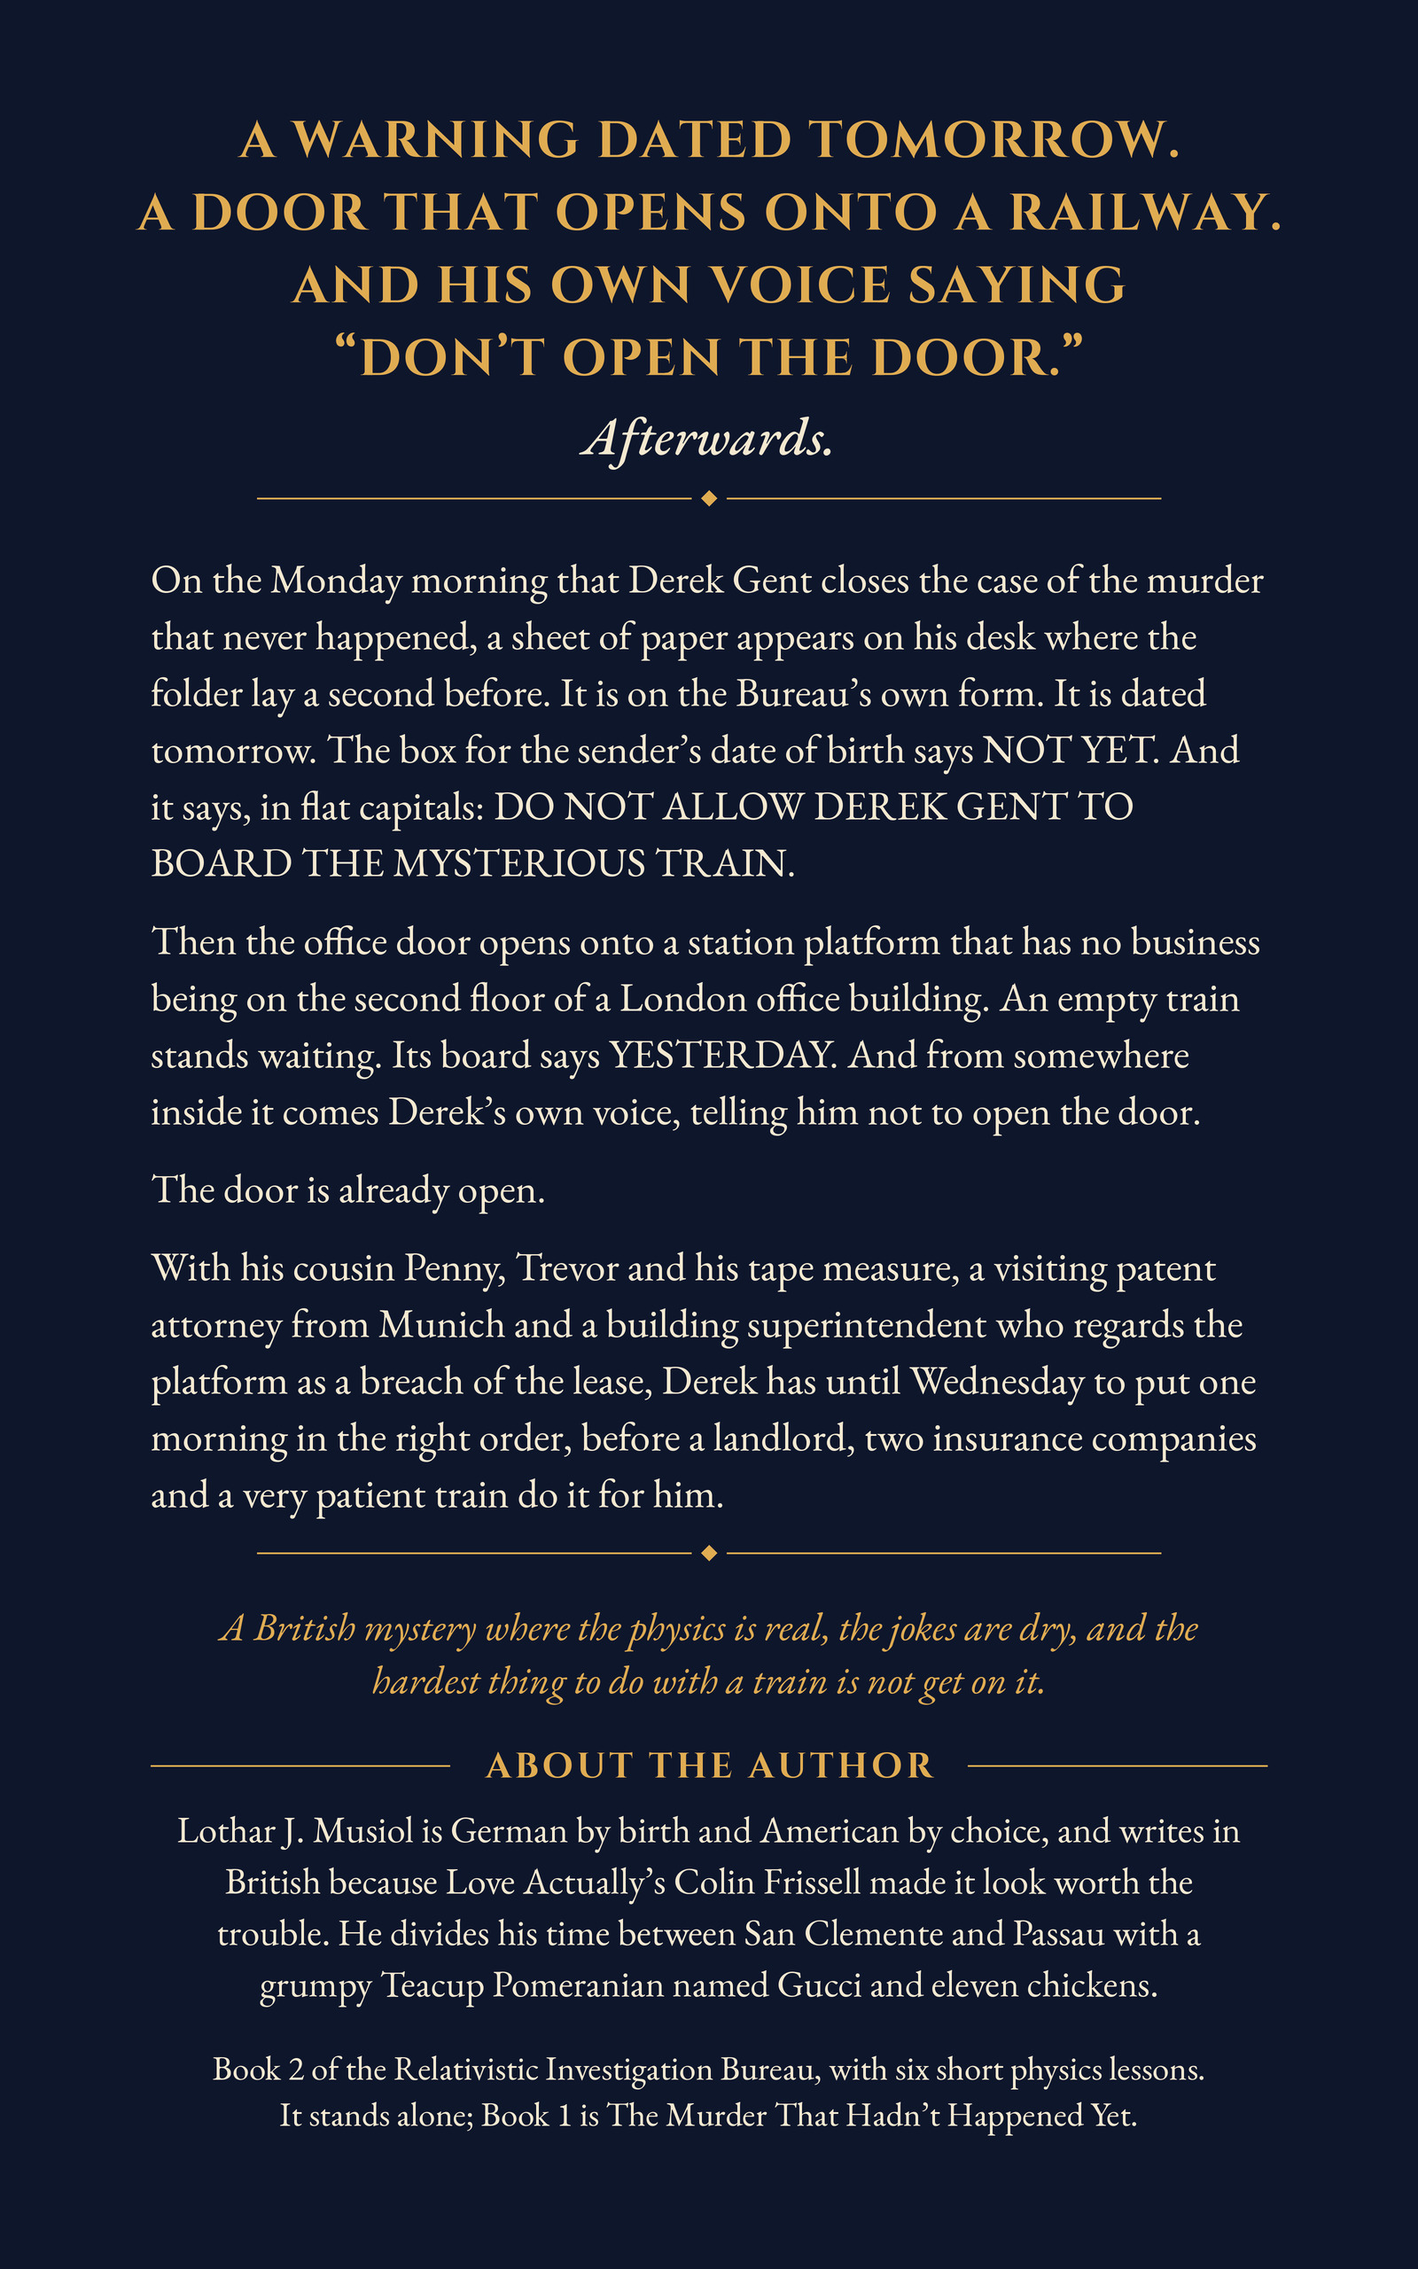
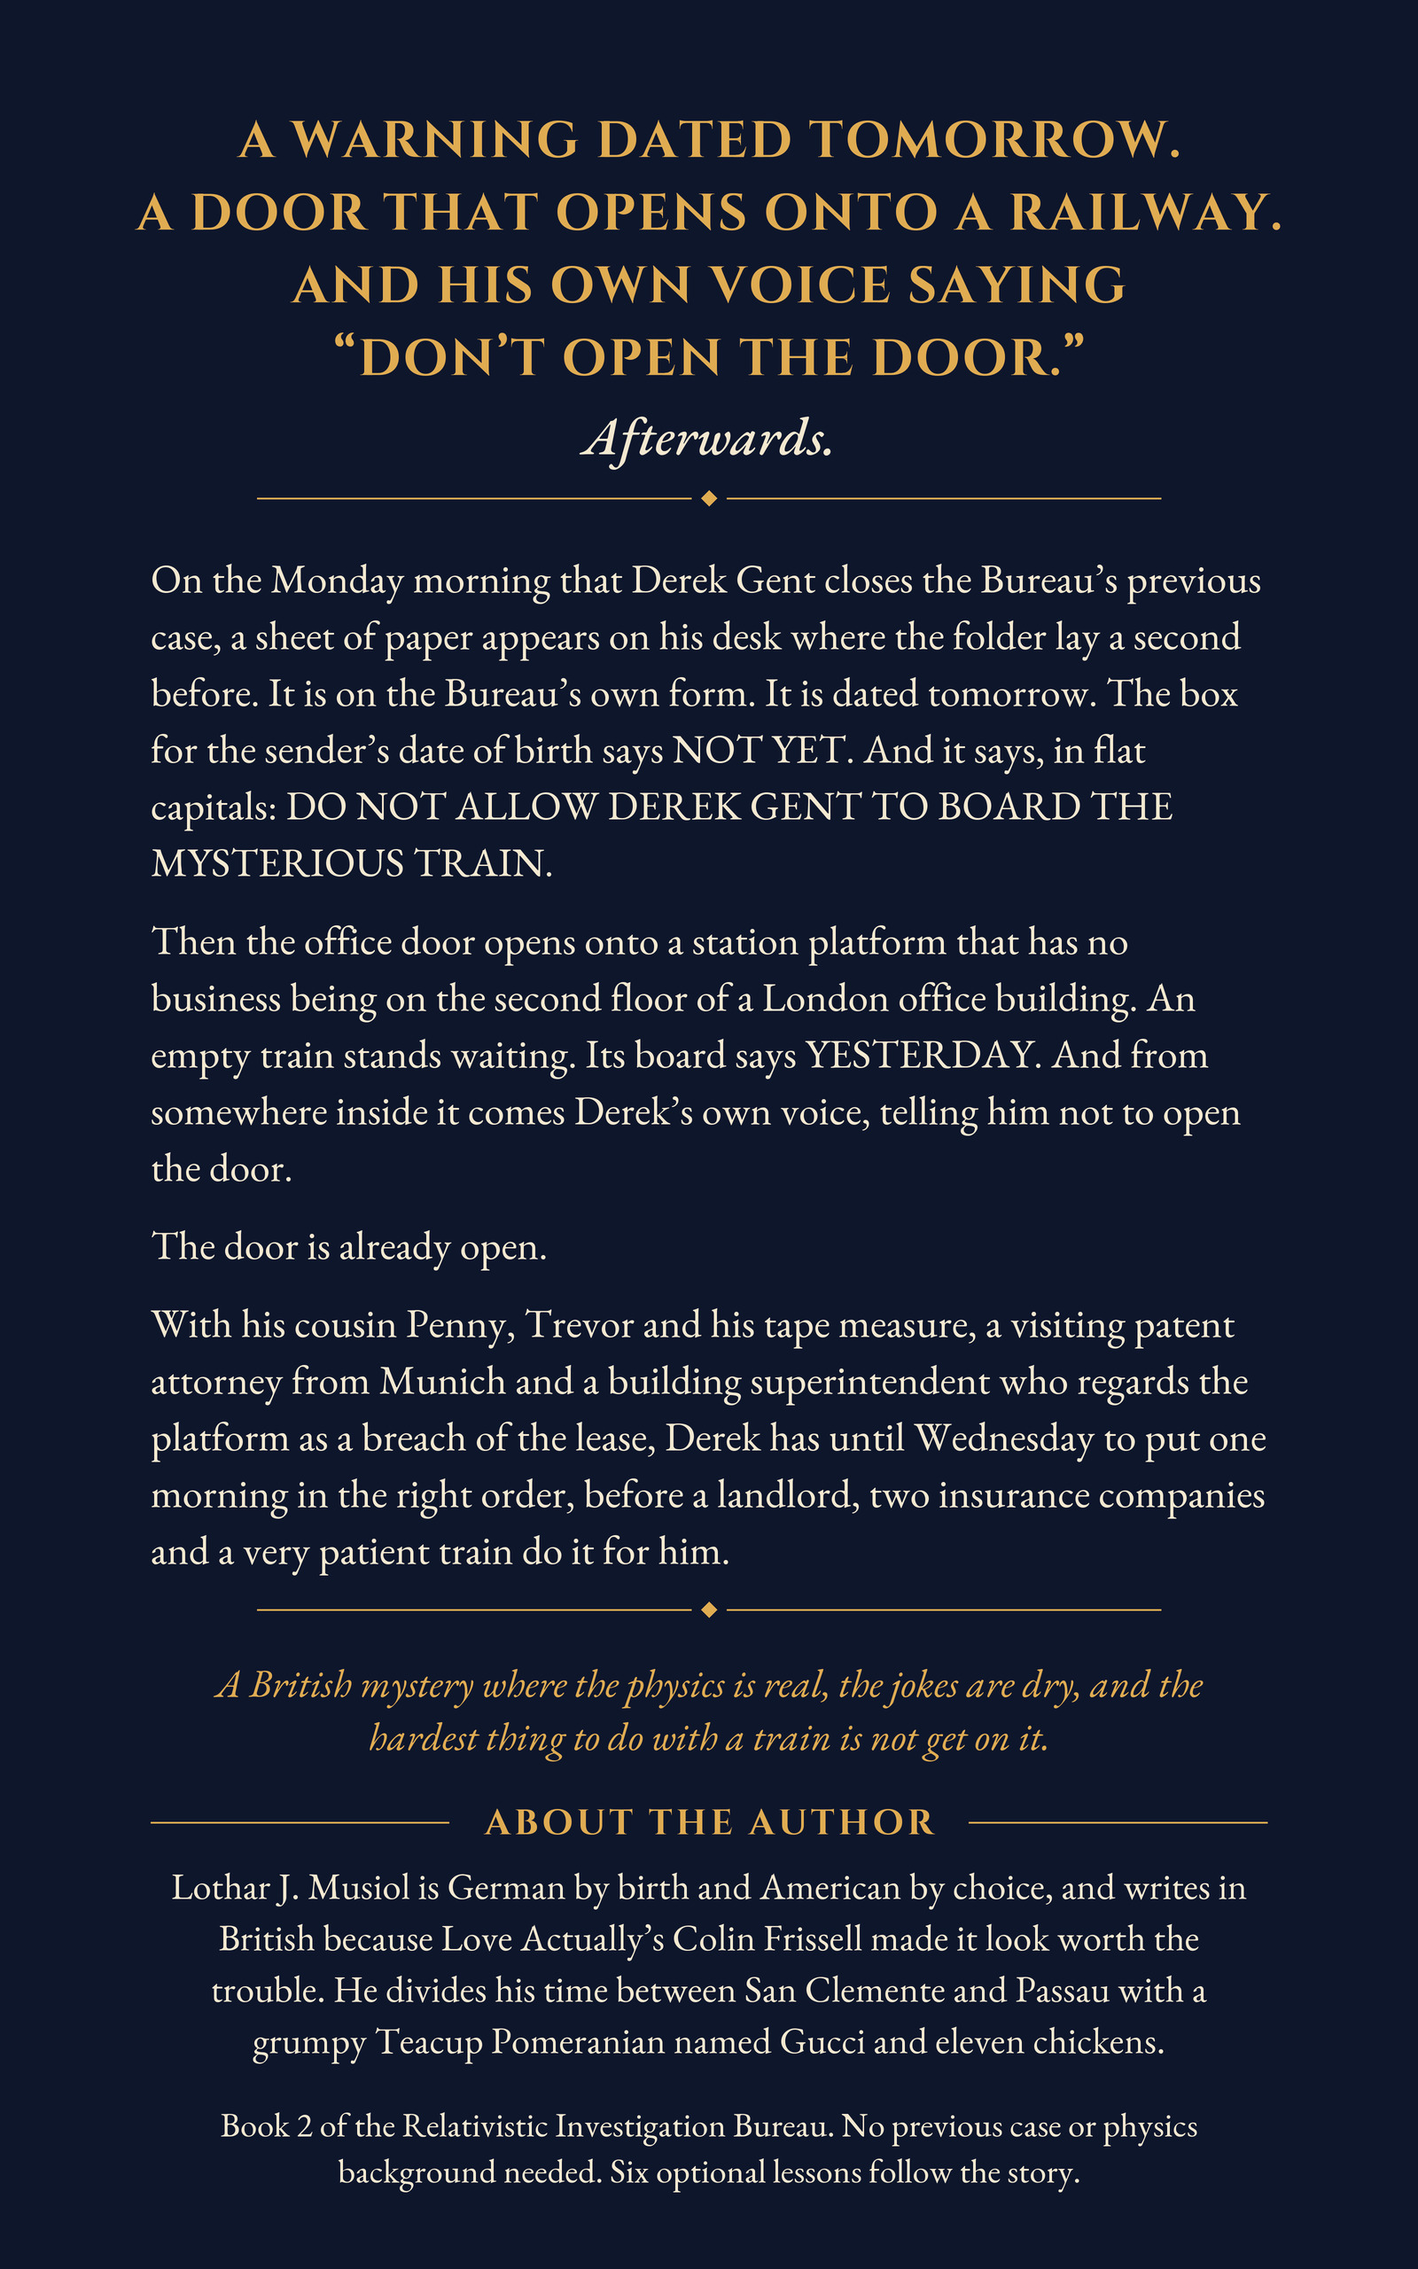
Remove Book 1 spoiler from Book 2 cover copy

Changed region(s): [[0.0938, 0.25, 0.875, 0.9688], [0.4688, 0.1875, 0.5312, 0.2188]]

diff --git a/The Relativistic Investigation Bureau - SERIES/Book 2 - The Warning That Was Sent Too Late/scripts/make_covers.py b/The Relativistic Investigation Bureau - SERIES/Book 2 - The Warning That Was Sent Too Late/scripts/make_covers.py
@@ -306,7 +306,7 @@ def back():
     spaced(d, (800 * S, (y + 4) * S), 'Afterwards.', F(EBI, 60, 520), CREAM); y += 84
     y += 30; rule(y); y += 60
     body = F(EB, 46, 420); lead = 64
-    for t in ["On the Monday morning that Derek Gent closes the case of the murder that never happened, a sheet of paper appears on his desk where the folder lay a second before. It is on the Bureau’s own form. It is dated tomorrow. The box for the sender’s date of birth says NOT YET. And it says, in flat capitals: DO NOT ALLOW DEREK GENT TO BOARD THE MYSTERIOUS TRAIN.",
+    for t in ["On the Monday morning that Derek Gent closes the Bureau’s previous case, a sheet of paper appears on his desk where the folder lay a second before. It is on the Bureau’s own form. It is dated tomorrow. The box for the sender’s date of birth says NOT YET. And it says, in flat capitals: DO NOT ALLOW DEREK GENT TO BOARD THE MYSTERIOUS TRAIN.",
               "Then the office door opens onto a station platform that has no business being on the second floor of a London office building. An empty train stands waiting. Its board says YESTERDAY. And from somewhere inside it comes Derek’s own voice, telling him not to open the door.",
               "The door is already open.",
               "With his cousin Penny, Trevor and his tape measure, a visiting patent attorney from Munich and a building superintendent who regards the platform as a breach of the lease, Derek has until Wednesday to put one morning in the right order, before a landlord, two insurance companies and a very patient train do it for him."]:
@@ -316,7 +316,7 @@ def back():
     y += 40; rule(y + 26, 'ABOUT THE AUTHOR'); y += 70
     y = para(y, 'Lothar J. Musiol is German by birth and American by choice, and writes in British because Love Actually’s Colin Frissell made it look worth the trouble. He divides his time between San Clemente and Passau with a grumpy Teacup Pomeranian named Gucci and eleven chickens.', F(EB, 42, 420), CREAM, 58, center=True, x0=L + 20, width=R - L - 40)
     y += 40
-    y = para(y, 'Book 2 of the Relativistic Investigation Bureau, with six short physics lessons. It stands alone; Book 1 is The Murder That Hadn’t Happened Yet.', F(EB, 38, 420), CREAM, 52, center=True, x0=L + 60, width=R - L - 120)
+    y = para(y, 'Book 2 of the Relativistic Investigation Bureau. No previous case or physics background needed. Six optional lessons follow the story.', F(EB, 38, 420), CREAM, 52, center=True, x0=L + 60, width=R - L - 120)
     print('back cover text ends at y =', y)
     assert y < 2480, 'back cover text overflows'
     out = im.resize((1600, 2560), Image.LANCZOS)

diff --git a/The Relativistic Investigation Bureau - SERIES/Book 2 - The Warning That Was Sent Too Late/KDP.md b/The Relativistic Investigation Bureau - SERIES/Book 2 - The Warning That Was Sent Too Late/KDP.md
@@ -1,6 +1,6 @@
 # KDP: The Warning That Was Sent Too Late (Book 2)
 
-Prepared 9 Oct 2026 (PT) against REV02; checked 14 Oct 2026 against the release master `The_Warning_That_Was_Sent_Too_Late_BOOK_2_REV04.docx` (about 52,300 words, rebuilt from the paired REV04 Markdown source) and active release candidate `The_Warning_That_Was_Sent_Too_Late_BOOK_2_REV05_LINE_EDIT_DRAFT.docx` (about 52,000 words across 22 chapters and a six-lesson course). Covers made 11 Oct 2026 (PT): `Kindle Front Cover.jpg` and `Kindle Back Cover.jpg`, drawn by `scripts/make_covers.py`.
+Prepared 9 Oct 2026 (PT) against REV02; checked 15 Oct 2026 against the release master `The_Warning_That_Was_Sent_Too_Late_BOOK_2_REV04.docx` (about 52,300 words, rebuilt from the paired REV04 Markdown source) and active release candidate `The_Warning_That_Was_Sent_Too_Late_BOOK_2_REV05_LINE_EDIT_DRAFT.docx` (about 52,000 words across 22 chapters and a six-lesson course). Cover artwork made 11 Oct 2026 (PT), with the back-cover copy revised 15 Oct 2026: `Kindle Front Cover.jpg` and `Kindle Back Cover.jpg`, drawn by `scripts/make_covers.py`.
 
 The layout follows Book 1's `KDP_METADATA.txt`. Fields marked **Lothar decides** are left open on purpose.
 
@@ -15,13 +15,13 @@ The layout follows Book 1's `KDP_METADATA.txt`. Fields marked **Lothar decides**
 
 ## Description (paste into KDP)
 
-About 360 words, well under KDP's 4,000-character limit. Every fact is checked against the book: the sheet, the NOT YET box, the instruction, the door, YESTERDAY, the late voice, Monday to Wednesday, and the cast.
+About 360 words and 1,980 characters, well under KDP's 4,000-character limit. The copy identifies the self-contained case, introduces the cast, and says the books can be read in either order. Every fact is checked against the book: the sheet, the NOT YET box, the instruction, the door, YESTERDAY, the late voice, Monday to Wednesday, and the cast.
 
 > A WARNING DATED TOMORROW.
 > A DOOR THAT OPENED ONTO A RAILWAY.
 > AND A VOICE TELLING HIM NOT TO OPEN IT, ARRIVING AFTER IT HAD.
 >
-> On the Monday morning that Derek Gent closes the case of the murder that never happened, a sheet of paper appears on his desk where the folder lay a second before. It is on the Bureau's own form. It is dated tomorrow. In the box for the sender's date of birth it says NOT YET. And it says, in flat capitals: DO NOT ALLOW DEREK GENT TO BOARD THE MYSTERIOUS TRAIN.
+> On the Monday morning that Derek Gent closes the Bureau’s previous case, a sheet of paper appears on his desk where the folder lay a second before. It is on the Bureau's own form. It is dated tomorrow. In the box for the sender's date of birth it says NOT YET. And it says, in flat capitals: DO NOT ALLOW DEREK GENT TO BOARD THE MYSTERIOUS TRAIN.
 >
 > Then the office door opens onto a station platform that has no business being on the second floor of a London office building. An empty train stands waiting. Its board says YESTERDAY. And from somewhere inside it comes Derek's own voice, telling him not to open the door.
 >
@@ -31,20 +31,20 @@ About 360 words, well under KDP's 4,000-character limit. Every fact is checked a
 >
 > With his cousin Penny, who will not let anybody reorder what has already happened; Trevor, armed with a tape measure; a visiting patent attorney from Munich who has been lied to by railways in four countries; and a building superintendent who regards the platform as a breach of the lease, Derek has until Wednesday to put one morning in the right order, before a landlord, two insurance companies and a very patient train do it for him.
 >
-> The Warning That Was Sent Too Late is Book 2 of the Relativistic Investigation Bureau, and it can be read on its own. A brief orientation introduces the Bureau, its people and the open thread carried forward from Book 1; this case reaches its own answer. It is a British mystery where the physics is real, the jokes are dry, and the hardest thing to do with a train is not get on it.
+> The Warning That Was Sent Too Late is Book 2 of the Relativistic Investigation Bureau. Its complete case can be read before or after Book 1; no physics background is needed, and six optional lessons follow the story. A brief orientation introduces the Bureau, its people and the open thread carried forward from the first case. It is a British mystery where the physics is real, the jokes are dry, and the hardest thing to do with a train is not get on it.
 >
 > Recommended for readers aged 14 and up. Strong readers aged 12 to 13 may also enjoy the mystery, with adult support for the denser physics discussions.
 
 ## Keywords (7, comma-separated for KDP)
 
-Revised 11 Oct 2026 (PT), on Book 1's rule: no keyword repeats a category word or the title (KDP indexes those already), no "time travel" (nobody travels in time, and nobody boards), none copies Book 1's list, each under 50 characters.
+Revised 15 Oct 2026 (PT), with the any-order promise: no keyword repeats a category word or the title (KDP indexes those already), no "time travel" (nobody travels in time, and nobody boards), none copies Book 1's list, each under 50 characters.
 
-relativity causality puzzle novel, phantom train in a london office, mysterious warning note story, funny british detective agency sequel, light cone whodunit, cousin sleuths and a tape measure, einstein physics fiction for adults
+relativity causality puzzle novel, phantom train in a london office, mysterious warning note story, standalone british science mystery, light cone whodunit, cousin sleuths and a tape measure, einstein physics fiction for adults
 
 1. relativity causality puzzle novel
 2. phantom train in a london office
 3. mysterious warning note story
-4. funny british detective agency sequel
+4. standalone british science mystery
 5. light cone whodunit
 6. cousin sleuths and a tape measure
 7. einstein physics fiction for adults

diff --git a/SCORES.md b/SCORES.md
@@ -30,7 +30,7 @@ Release order covers unpublished books only. Rules: highest score with finished 
 | Quantum, Actually, Volume 2: A QED Course | Quantum, Actually, Vol 2 | ready | 9.0 (10 Oct 2026, strict, sampled reread; 8.7 before that day's fixes) | done | done | poor | 2.05 (one book; 1.25 MB of unused images dropped) | Waits for Vol 1; then upload. Optional full read-through | 11 (week of 16 Nov) |
 | The Permitted Options | Lolly Wren's Curious Science Adventures, Book 2 | ready | 9.1 (10 Oct 2026, strict; 8.6 before that day's fixes) | done (series trade dress, flat illustration) | done (single colour, text only) | good | 0.23 | Paperback wrap once the print page count is final; then upload | 6 (week of 26 Oct) |
 | A Trip Is Not a New Life | Look First, Vol 2 | draft | manuscript 5.9, overall 4.7 with covers/listing (11 Oct 2026, strict, sampled ~4% of 124k words; was 8.7 / Perplexity 8.4); sellability 4 | missing | missing | good | 1.94 | Put photo credits back under the figures or on a credits page (now deferred to an Amazon description that does not exist: CC BY breach); plain-language pass on the house vocabulary ('kitchen', 'heavy stack', 'upper hull', warm/cold) and fragment subheads; smooth the seam between the space and longevity halves; covers; KDP description | 16 (week of 30 Nov) |
-| The Warning That Was Sent Too Late | The Relativistic Investigation Bureau, Book 2 | draft | 9.1 (14 Oct 2026, critical follow-up to the 11 Oct full read: target reader 9.2, harsh critic 8.9, science/fact-check 9.4, market 5.2 (pre-on-ramp); humour 9.2, plot/clue fairness 8.9, pacing 9.0, prose 9.0, characters 9.1, clarity/continuity 9.4 after explicit Tuesday anchor, covers 9.0; sellability 5.5, both scored before the 15 Oct first-entry revision and due for reassessment) | done (Book 1 trade dress, 1600 x 2560) | done (single colour, text only) | good | 0.16 | Visually proof the REV05 DOCX and Kindle preview; then close the revision and update the release package | 8 (week of 2 Nov) |
+| The Warning That Was Sent Too Late | The Relativistic Investigation Bureau, Book 2 | draft | 9.2 (15 Oct 2026 critical reassessment: target reader 9.5, harsh critic 9.2, science/fact-check 9.4, humour 9.2, plot/clue fairness 8.9, pacing 9.0, prose 9.0, characters 9.1, clarity/continuity 9.7, uniqueness 9.6, suspense/wonder/payoff 9.2, recommendation 9.2; market 7.2 and sellability 7.0 after spoiler-free first-entry note and revised copy; covers 9.1) | done (Book 1 trade dress, 1600 x 2560; back copy corrected and inspected) | done (single colour, text only) | good | 0.16 | Visually proof the REV05 DOCX and Kindle preview; then close the revision and update the release package | 8 (week of 2 Nov) |
 | Math, Actually, Volume 1: From Arithmetic to Calculus | Math, Actually, Vol 1 | ready | 9.1 (10 Oct 2026, strict, sampled reread; 8.6 before that day's fixes) | done (redrawn 10 Oct 2026 by script: navy and gold, a curve on a grid with Riemann rectangles and a tangent, no building; old cover in bak) | done (text-only, navy and gold) | poor | 1.90 | Upload; cover picture still draws a building (art call) | 12 (week of 16 Nov) |
 | Math, Actually, Volume 2: From Multivariable Calculus to Set Theory & Logic | Math, Actually, Vol 2 | ready | 9.0 (10 Oct 2026, strict, sampled reread; 8.5 before) | done (redrawn 10 Oct 2026 by script: navy and gold, a saddle-surface wire mesh, no building; old cover in bak) | done (text-only, navy and gold) | poor | 2.64 | Upload after Vol 1; cover picture still draws a building (art call) | 13 (week of 23 Nov) |
 | Math, Actually, Volume 3: From Differential Equations to Abstract Algebra | Math, Actually, Vol 3 | ready | 9.1 (10 Oct 2026, strict, sampled reread; 8.7 before) | done (redrawn 10 Oct 2026 by script: navy and gold, a phase portrait spiralling into a sink, no building; old cover in bak) | done (text-only, navy and gold) | poor | 2.38 | Upload after Vol 2; cover picture still draws a building (art call) | 14 (week of 23 Nov) |

diff --git a/The Relativistic Investigation Bureau - SERIES/Book 2 - The Warning That Was Sent Too Late/Book_2_REV02_Change_Log.md b/The Relativistic Investigation Bureau - SERIES/Book 2 - The Warning That Was Sent Too Late/Book_2_REV02_Change_Log.md
@@ -197,3 +197,10 @@ The remaining score gap is concentrated in dense science dialogue for casual SF 
 - Replaced the redundant “this case stands alone” sentence in “How to Read This Book” with a direct note that no physics background is needed and the six-lesson course is optional.
 - Updated the KDP description to accurately promise the orientation and a self-contained case.
 - The Book 2 REV05 Markdown and paired DOCX were updated together. The REV04 release master was not changed.
+
+## 15 Oct 2026 — Critical first-entry and cover-copy pass
+
+- Removed the Book 1 answer spoiler from the back-cover hook: the new copy says Derek is closing “the Bureau’s previous case.” Rebuilt and visually checked the back cover from `scripts/make_covers.py`; its reader guidance now says no prior case or physics background is needed. Left the front cover unchanged.
+- Brought the KDP description into alignment with the cover and the any-order series rule. It now says plainly that the complete case can be read before or after Book 1, no physics background is needed, and the lessons are optional. Replaced the misleading “sequel” search phrase with “standalone.”
+- Rechecked the new-reader orientation against the opening and middle-case references: the current warning and investigation remain distinct from the unresolved LOCALHOST thread; no prior answer is needed to understand the case. The case resolves its central question; the railway, Sunday slip and late voice remain openly marked as series mysteries.
+- Updated the marketing assessment after the on-ramp change. Ease of entry and sellability improve; neither readership data nor visual Kindle/Word proof is available to justify a 10. Revision remains a draft pending those checks.
